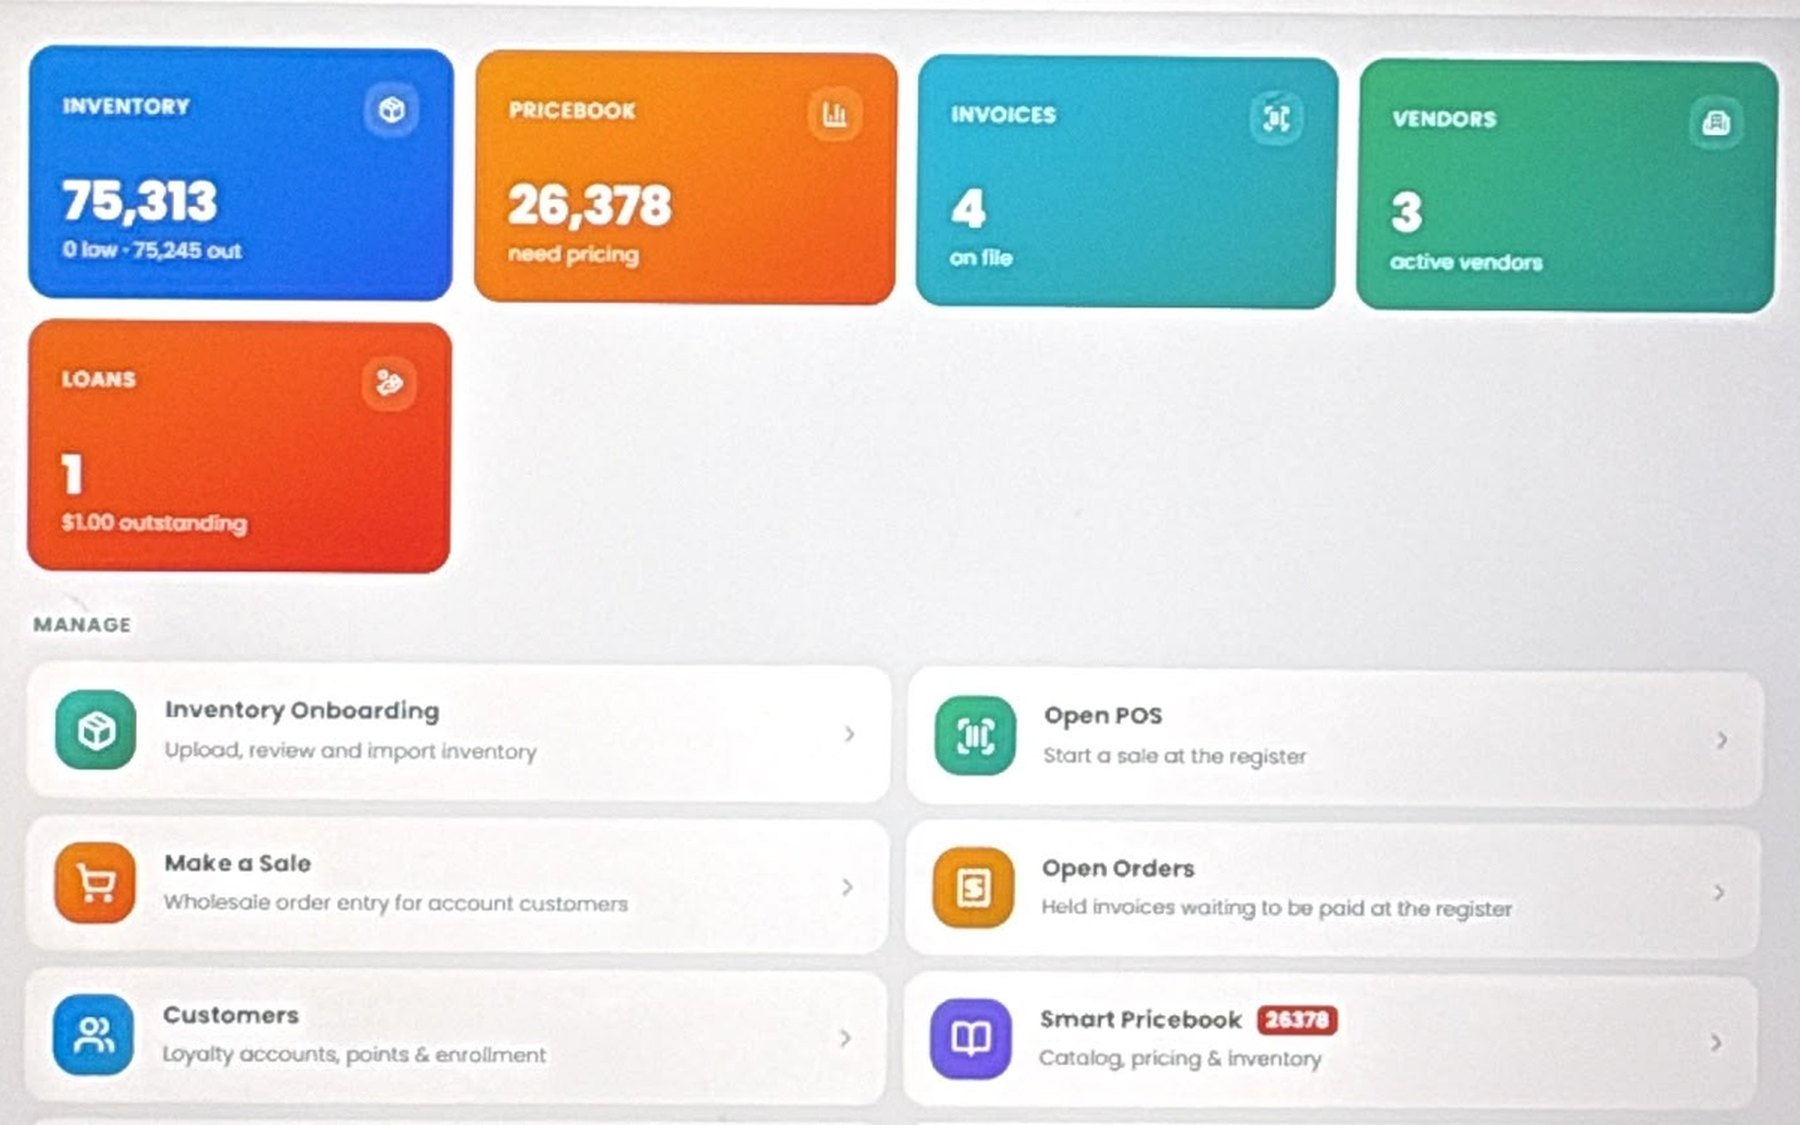
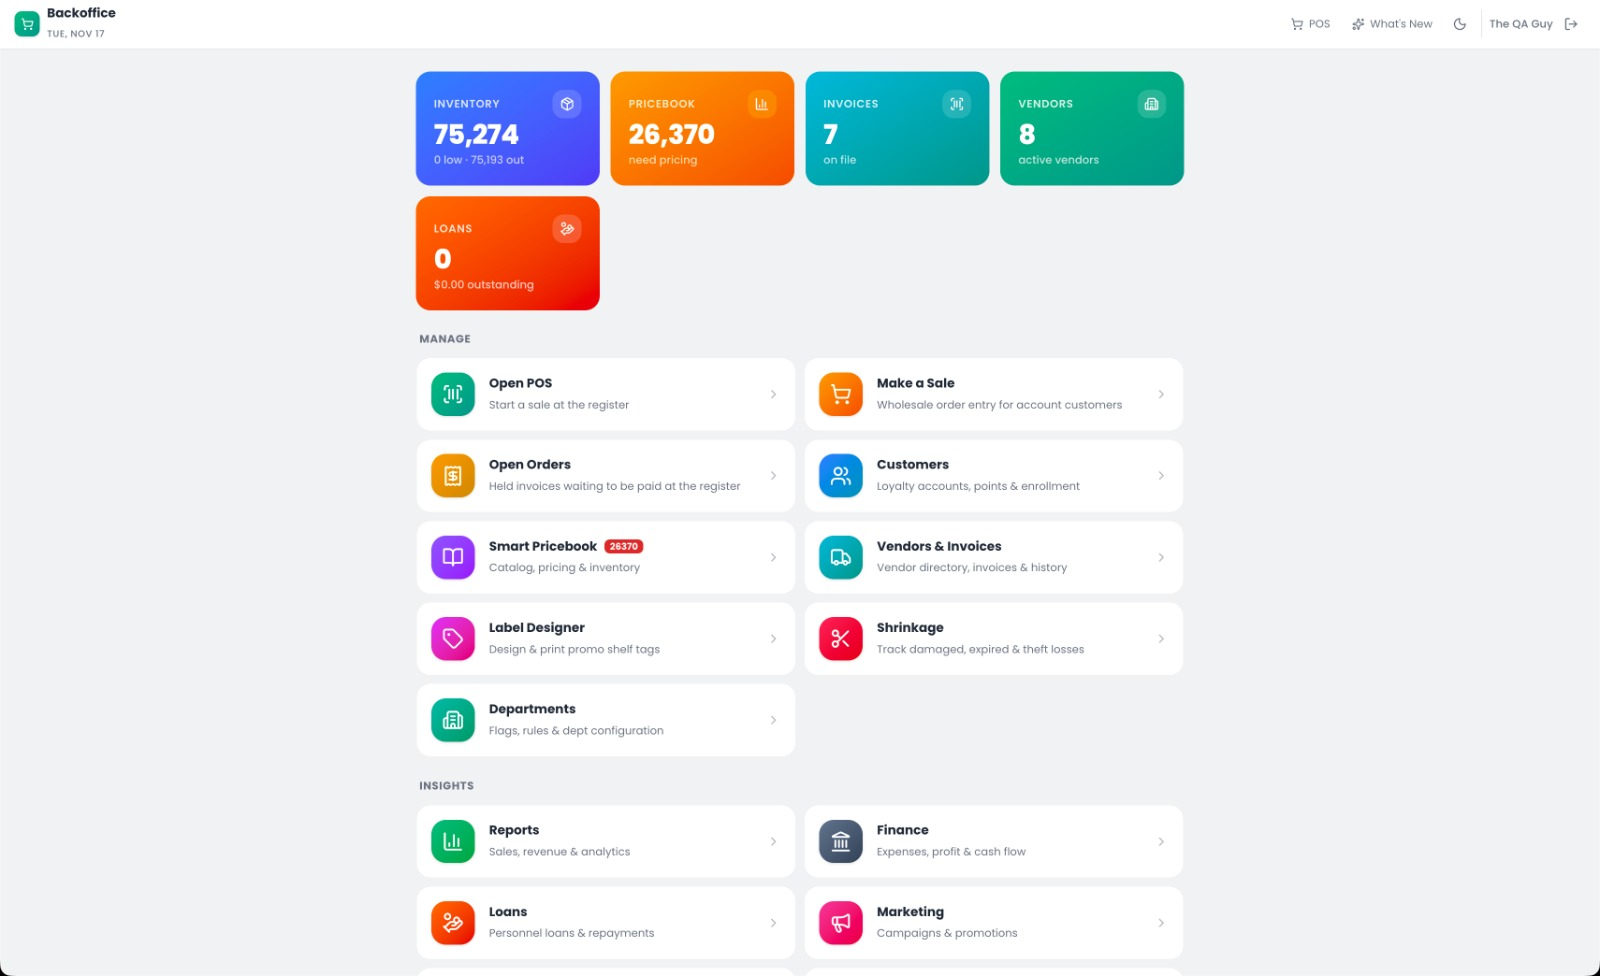
feat: real POS, checkout, pricebook and back office screens at original size

diff --git a/src/components/site/Story.tsx b/src/components/site/Story.tsx
@@ -25,8 +25,16 @@ const CHAPTERS = [
     Screen: InvoiceScreen,
   },
   {
-    key: "backoffice" as const,
+    key: "pricebook" as const,
     n: "03",
+    title: "Pricebook",
+    lead: "Every item, price and stock level in one list.",
+    points: [],
+    Screen: InvoiceScreen,
+  },
+  {
+    key: "backoffice" as const,
+    n: "04",
     title: "Back office",
     lead: "Run the store from your phone or laptop.",
     points: ["Live sales and profit by department", "Z-reports and shift audits", "Staff roles and multi-store view"],
@@ -37,8 +45,8 @@ const CHAPTERS = [
 const ScreenOrImage: React.FC<{ c: (typeof CHAPTERS)[number] }> = ({ c }) => {
   const src = MEDIA.screens[c.key];
   return src ? (
-    <div className="aspect-[900/560]">
-      <img src={src} alt={`Produce Ai ${c.title} screen`} className="slot-img" />
+    <div className="aspect-[1600/977]">
+      <img src={src} alt={`Produce Ai ${c.title} screen`} className="slot-img !object-contain" />
     </div>
   ) : (
     <ScaledScreen>
@@ -73,7 +81,7 @@ export const Story: React.FC = () => {
 
   const heading = (
     <h2 data-reveal="head" className="h-display h-section max-w-[34rem] text-balance !leading-[1.04]">
-      Three screens, one system.
+      Four screens, one system.
     </h2>
   );
 
@@ -141,7 +149,7 @@ export const Story: React.FC = () => {
           <div className="col-span-7 relative">
             <div className="absolute -inset-10 bg-[radial-gradient(closest-side,rgba(49,227,39,0.22),transparent_70%)] pointer-events-none" />
             <DeviceFrame className="relative">
-              <div className="relative aspect-[900/560]">
+              <div className="relative aspect-[1600/977]">
                 <span key={active} aria-hidden className="glint z-10" />
                 {CHAPTERS.map((c, i) => (
                   <div

diff --git a/src/media.ts b/src/media.ts
@@ -20,6 +20,7 @@ export const MEDIA = {
   screens: {
     checkout: "/images/slots/checkout.jpg" as string | null,
     payment: "/images/slots/payment.jpg" as string | null,
+    pricebook: "/images/slots/pricebook.jpg" as string | null,
     backoffice: "/images/slots/backoffice.jpg" as string | null,
   },
 

diff --git a/CLAUDE.md b/CLAUDE.md
@@ -24,7 +24,7 @@ React 18 + Vite + TypeScript + Tailwind 3 + GSAP (ScrollTrigger) + lucide-react.
   fully responsive.** Headings state the point plainly. Don't add copy back. Don't add cards/gradients for decoration.
 - Built under the `design-taste-frontend` skill rules: no caption under images, no invented stats/reviews,
   hover = lift 2px / photo zoom 1.03 / buttons step + press, nothing animates on scroll except the two authored
-  moments (pinned "Three screens, one system" section and the big "Free scale / Free printer / Free cash drawer" text pass).
+  moments (pinned "Four screens, one system" section and the big "Free scale / Free printer / Free cash drawer" text pass).
   UI-mock numbers inside the live screens are demo data only.
 
 ## Files
